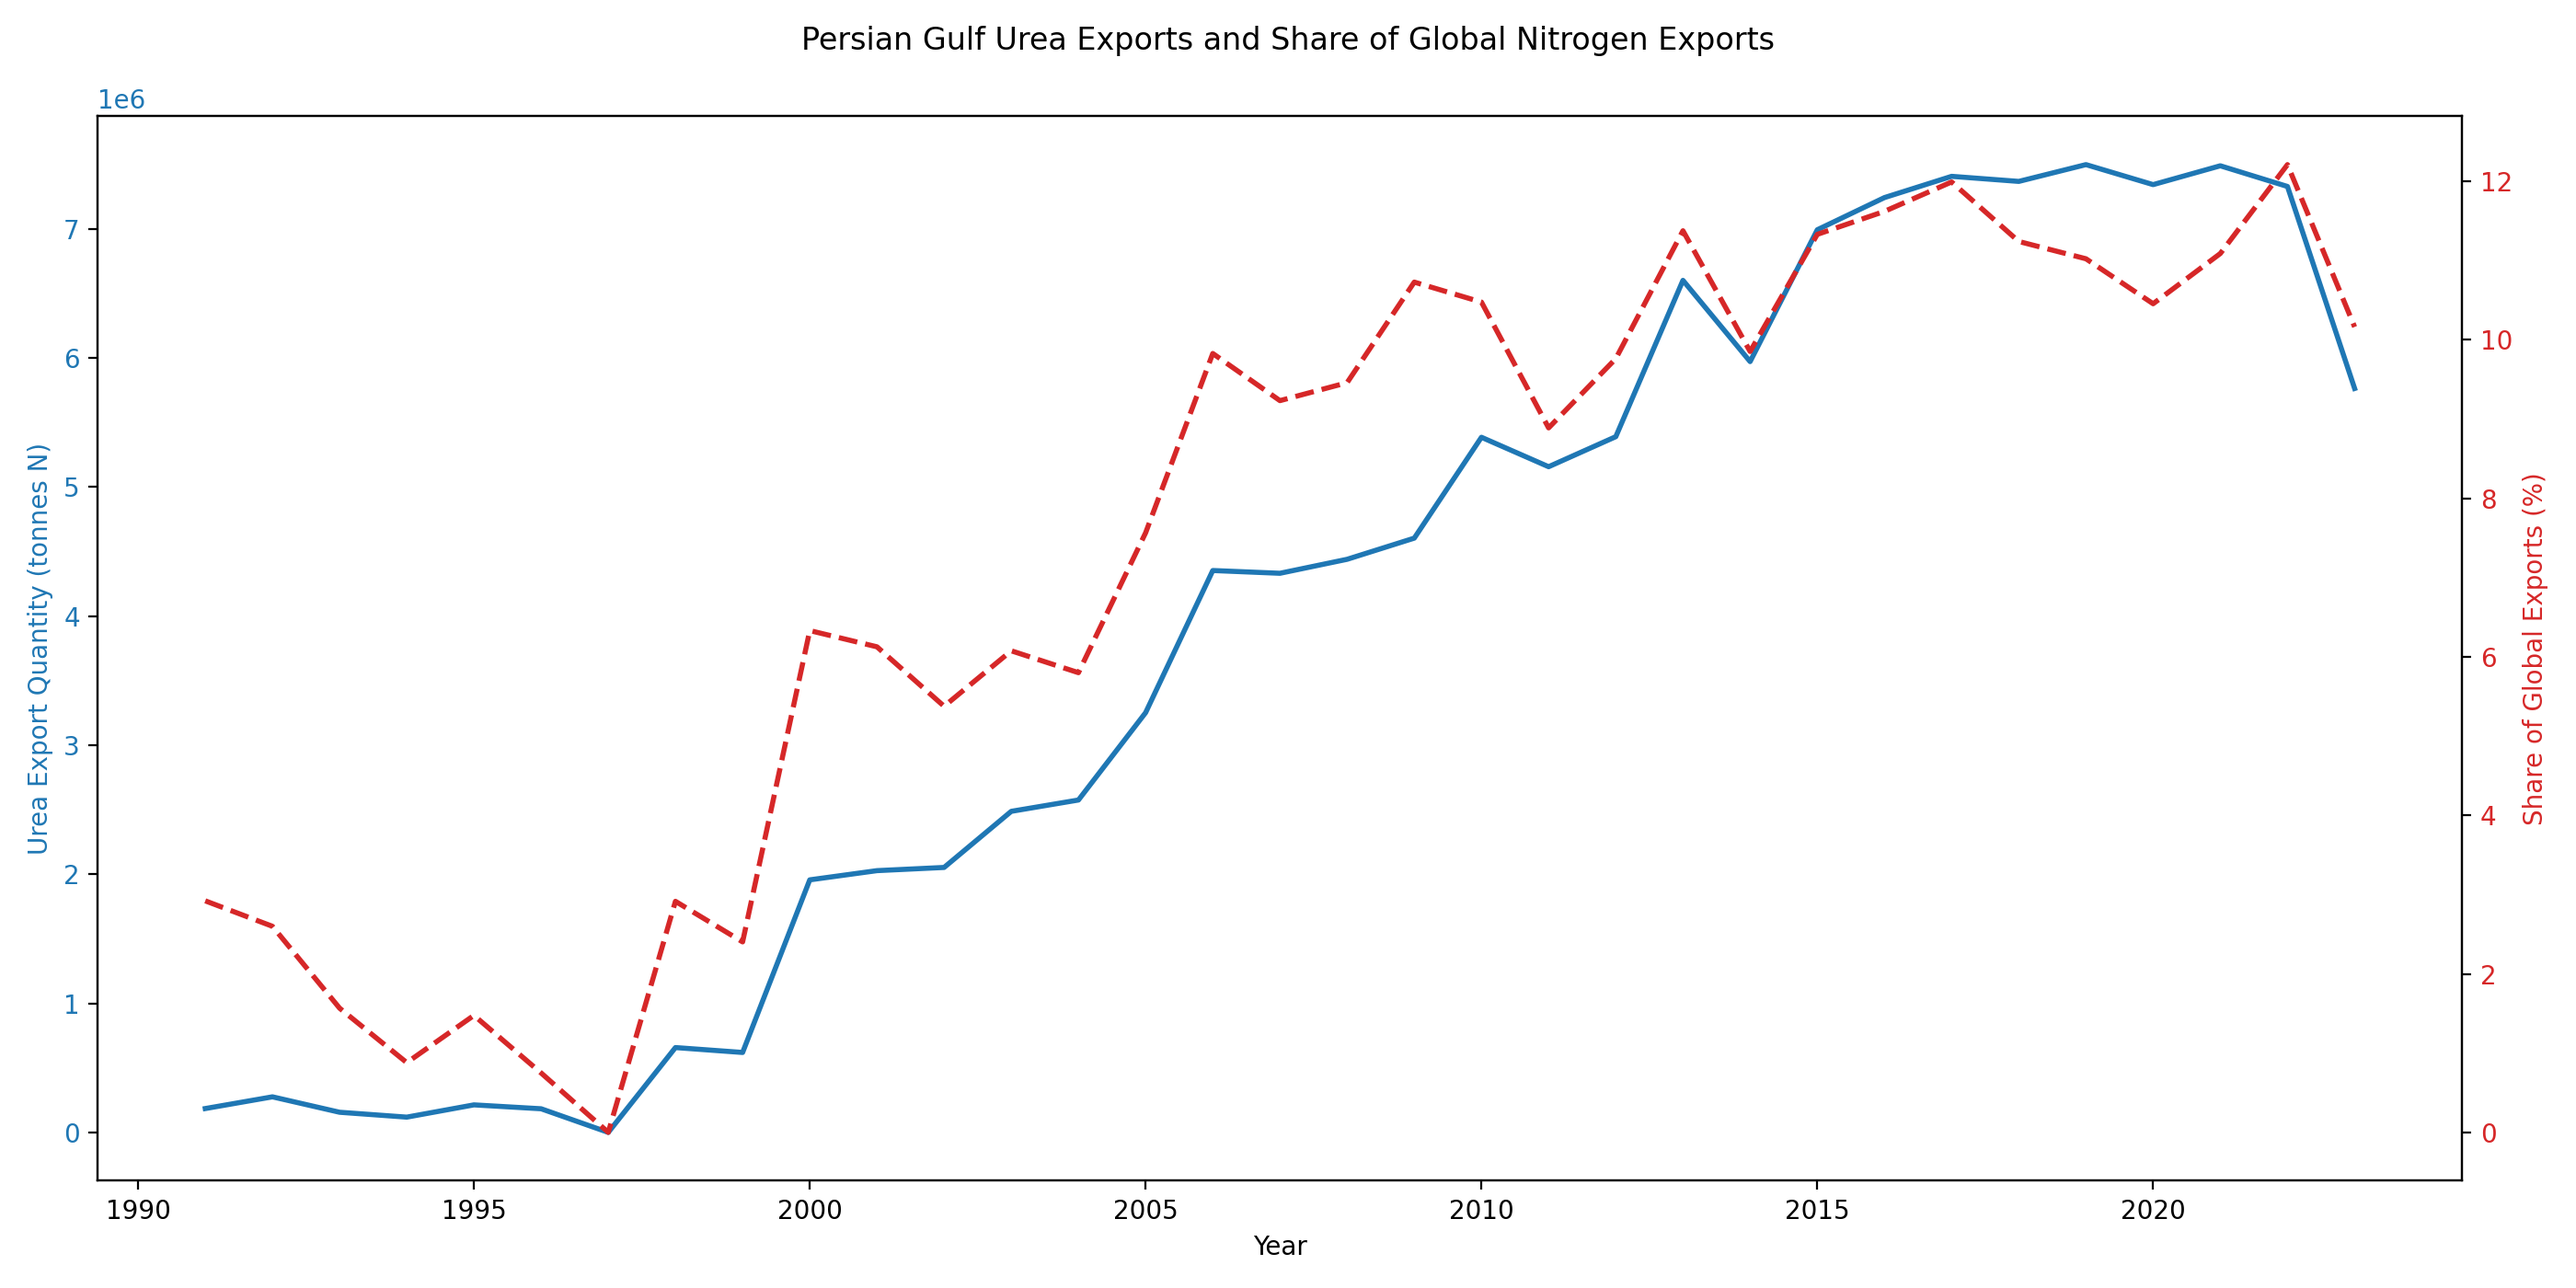
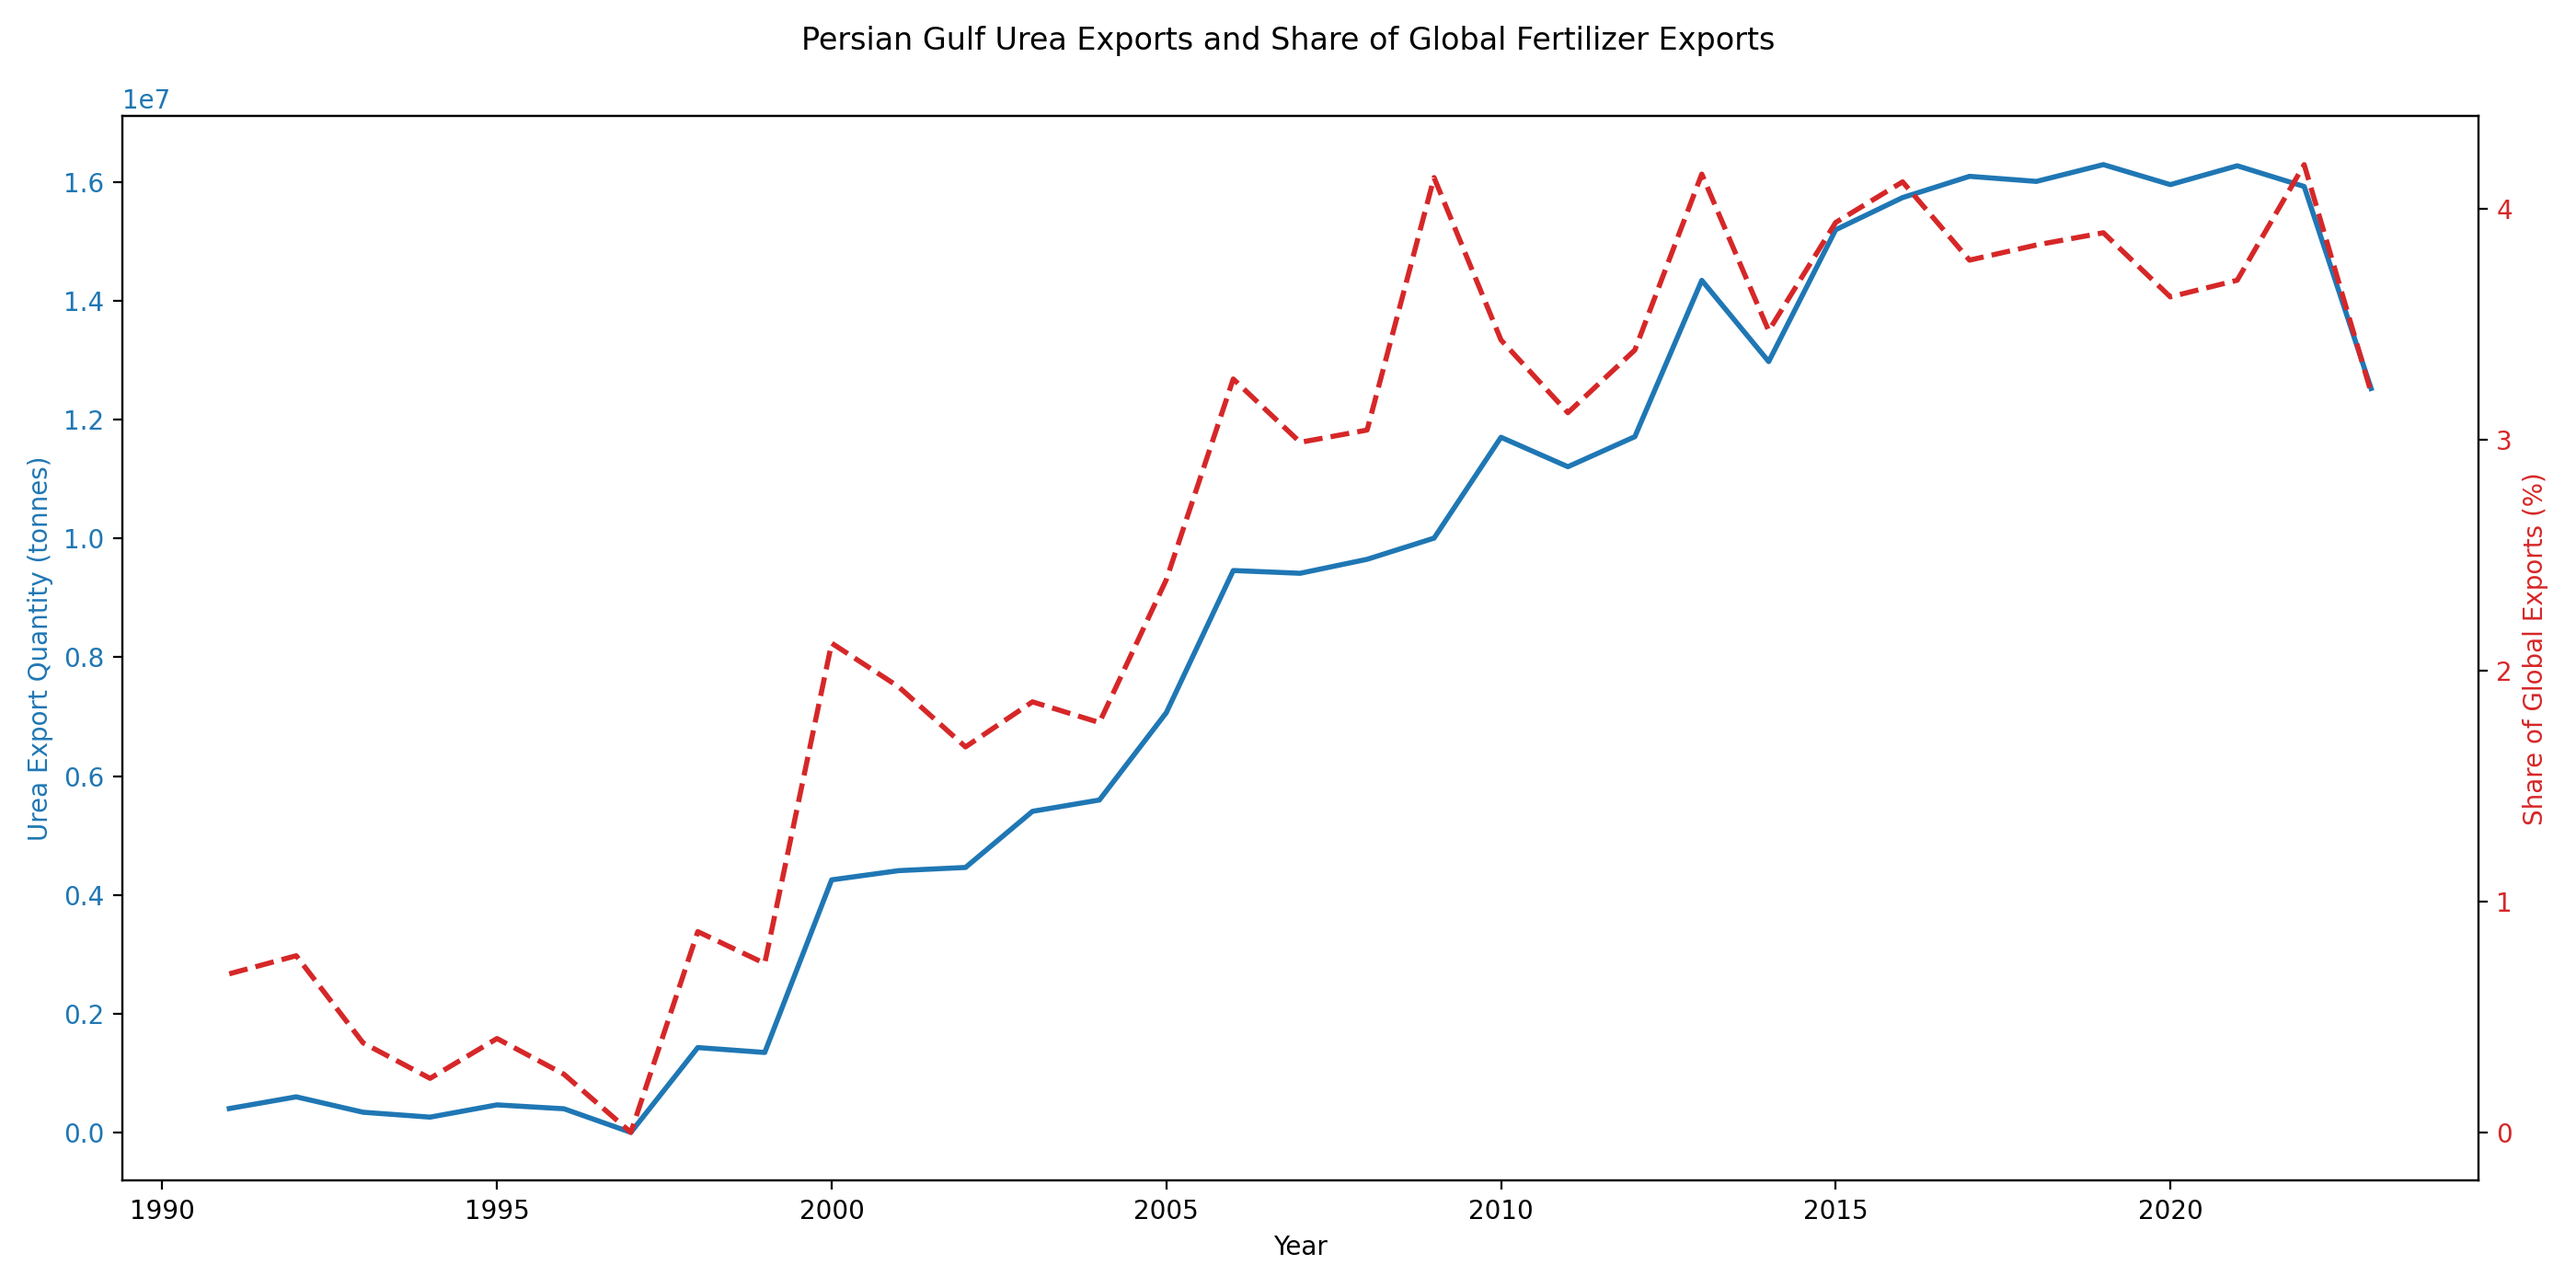
small fix for chart 2 denominator

diff --git a/main.py b/main.py
@@ -38,6 +38,11 @@ def prepare_import_rows(df: pd.DataFrame) -> pd.DataFrame:
     return df.loc[df["Element"] == "Import quantity (tonnes N)"].copy()
 
 
+def prepare_total_export_rows(df: pd.DataFrame) -> pd.DataFrame:
+    """Keep total fertilizer export rows for global-share calculations."""
+    return df.loc[df["Element"] == "Export quantity"].copy()
+
+
 def reshape_years_long(df: pd.DataFrame) -> pd.DataFrame:
     """Convert wide Y1990...Y2023 columns into year/value rows."""
     year_columns = get_year_columns(df)
@@ -90,12 +95,12 @@ def plot_gulf_exports_over_time(exports_df: pd.DataFrame) -> Path:
     return output_path
 
 
-def gulf_urea_share_of_global_exports(long_df: pd.DataFrame) -> pd.DataFrame:
-    """Calculate Persian Gulf urea exports as a share of global nitrogen exports."""
+def gulf_urea_share_of_global_exports(total_export_long_df: pd.DataFrame) -> pd.DataFrame:
+    """Calculate Persian Gulf urea exports as a share of global fertilizer exports."""
     gulf_urea = (
-        long_df.loc[
-            long_df["Reporter Countries"].isin(PERSIAN_GULF_COUNTRIES)
-            & (long_df["Item"] == "Urea")
+        total_export_long_df.loc[
+            total_export_long_df["Reporter Countries"].isin(PERSIAN_GULF_COUNTRIES)
+            & (total_export_long_df["Item"] == "Urea")
         ]
         .groupby("year", as_index=False)["value"]
         .sum()
@@ -103,7 +108,7 @@ def gulf_urea_share_of_global_exports(long_df: pd.DataFrame) -> pd.DataFrame:
     )
 
     global_exports = (
-        long_df.groupby("year", as_index=False)["value"]
+        total_export_long_df.groupby("year", as_index=False)["value"]
         .sum()
         .rename(columns={"value": "global_exports"})
     )
@@ -127,7 +132,7 @@ def plot_gulf_urea_share_of_global_exports(share_df: pd.DataFrame) -> Path:
         label="Persian Gulf urea exports",
     )
     ax1.set_xlabel("Year")
-    ax1.set_ylabel("Urea Export Quantity (tonnes N)", color="tab:blue")
+    ax1.set_ylabel("Urea Export Quantity (tonnes)", color="tab:blue")
     ax1.tick_params(axis="y", labelcolor="tab:blue")
 
     ax2 = ax1.twinx()
@@ -142,7 +147,7 @@ def plot_gulf_urea_share_of_global_exports(share_df: pd.DataFrame) -> Path:
     ax2.set_ylabel("Share of Global Exports (%)", color="tab:red")
     ax2.tick_params(axis="y", labelcolor="tab:red")
 
-    fig.suptitle("Persian Gulf Urea Exports and Share of Global Nitrogen Exports")
+    fig.suptitle("Persian Gulf Urea Exports and Share of Global Fertilizer Exports")
     fig.tight_layout()
 
     output_path = OUTPUT_DIR / "persian_gulf_urea_share_of_global_exports.png"
@@ -223,9 +228,11 @@ def main() -> None:
 
     export_df = prepare_export_rows(df)
     long_df = reshape_years_long(export_df)
+    total_export_df = prepare_total_export_rows(df)
+    total_export_long_df = reshape_years_long(total_export_df)
 
     gulf_exports_df = gulf_exports_over_time(long_df)
-    share_df = gulf_urea_share_of_global_exports(long_df)
+    share_df = gulf_urea_share_of_global_exports(total_export_long_df)
 
     import_df = prepare_import_rows(df)
     top_importers_df = top_importers_2023(import_df)
@@ -236,6 +243,7 @@ def main() -> None:
 
     print(f"Loaded rows: {len(df):,}")
     print(f"Nitrogen export rows: {len(export_df):,}")
+    print(f"Total export rows: {len(total_export_df):,}")
     print(f"Nitrogen import rows: {len(import_df):,}")
     print(f"Long-format rows: {len(long_df):,}")
     print(f"Saved: {chart_one.name}")
